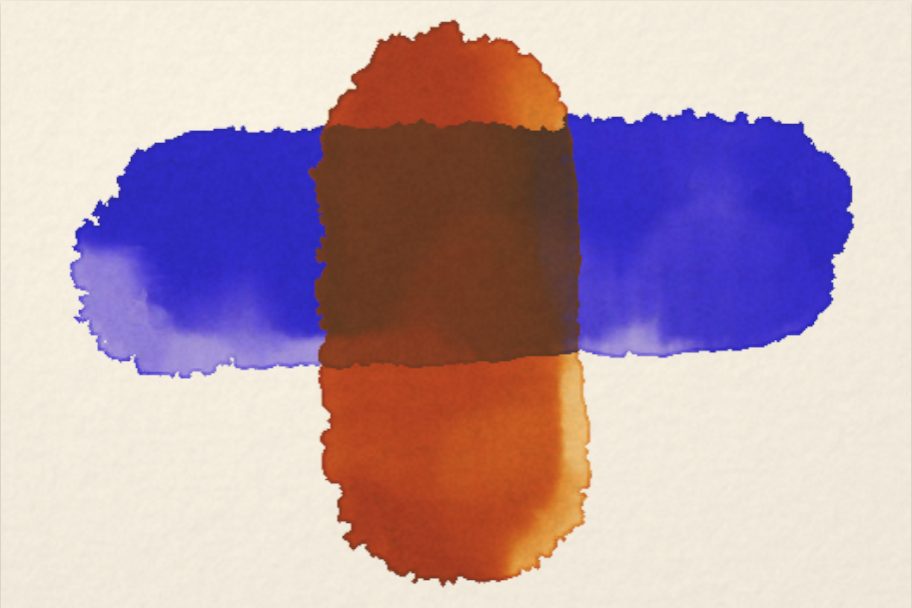
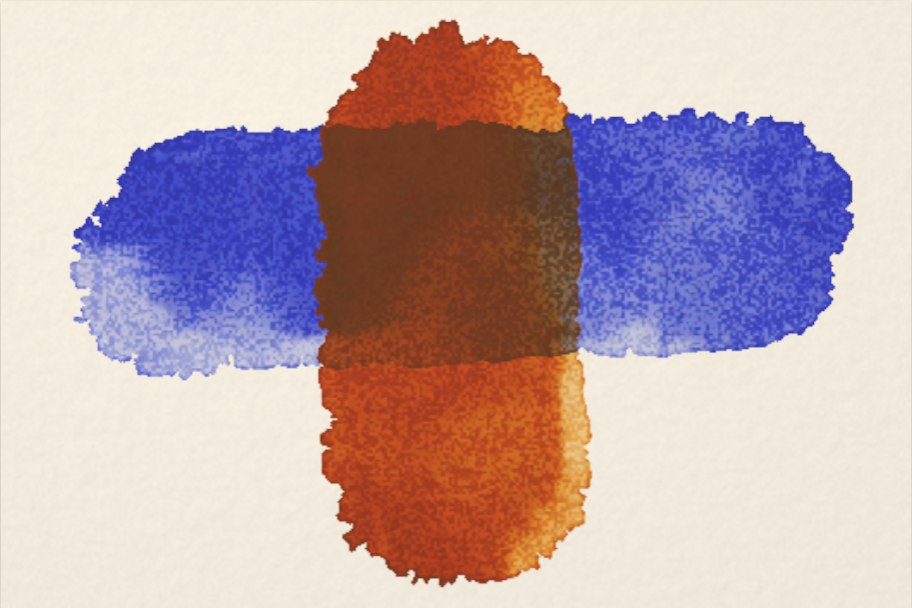
Bake granulation into the dried layer; real subtractive mingling; salt as brine
Granulation now lands at drying time as per-pit layer thickness in the
dried reflectance, so sediment speckle ghosts through later glazes. Phthalo
blue re-keyed green-shade so a wet meeting with yellow makes green, not
black. Salt grains are irregular wicking amoebae thrown into the saturated
wash. Edge fringing now follows wetness history instead of stamping one
uniform sawtooth on every mark.

Claude-Session: https://claude.ai/code/session_012ompEi3v5WLgYN66qUixCH

diff --git a/src/engine/shaders.ts b/src/engine/shaders.ts
@@ -74,9 +74,12 @@ float gate(vec2 uv, float pHere) {
   // Flow into dry paper is resisted until there is enough water behind it:
   // this is what keeps the edge of a wash crisp instead of feathering out
   // like ink on tissue. The threshold rides the paper's tooth, so the
-  // boundary advances unevenly along the fibers instead of as a level set.
+  // boundary advances unevenly along the fibers — but a well-fed edge beads
+  // smooth, so the fiber modulation fades where water is plentiful. One
+  // uniform fringe on every mark is a signature; wetness history is not.
   float wetThere = texture(uFlow, uv).a;
-  float fiber = 0.55 + 1.1 * texture(uPaper, uv).r;
+  float fiberMix = clamp(1.0 - pHere * 5.0, 0.25, 1.0);
+  float fiber = mix(1.0, 0.55 + 1.1 * texture(uPaper, uv).r, fiberMix);
   float invade = smoothstep(uTension * fiber, uTension * fiber * 2.5, pHere);
   return mix(invade, 1.0, step(0.05, wetThere));
 }
@@ -349,9 +352,11 @@ ${KM_GLSL}
 uniform sampler2D uFlow;
 uniform sampler2D uSusK;
 uniform sampler2D uSusS;
+uniform sampler2D uSusP;
 uniform sampler2D uDepK;
 uniform sampler2D uDepS;
 uniform sampler2D uDried;
+uniform sampler2D uPaper;
 out vec4 outColor;
 void main() {
   vec4 dried = texture(uDried, vUV);
@@ -366,10 +371,21 @@ void main() {
   }
   vec3 K = depK.rgb + susK.rgb;
   vec3 S = texture(uDepS, vUV).rgb + texture(uSusS, vUV).rgb;
+
+  // Granulation is baked at drying time, at the finest scale the paper
+  // carries: a granulating pigment's layer is genuinely thicker in the
+  // tooth's pits and thinner on its peaks. Because it lands in the dried
+  // reflectance itself, the sediment speckle ghosts through every later
+  // glaze — a real sheet never forgets its texture.
+  float gran = clamp(texture(uSusP, vUV).y / max(susK.a, 1e-5), 0.0, 1.0);
+  vec2 paper = texture(uPaper, vUV).rg;
+  float pit = smoothstep(0.62, 0.32, paper.r * 0.55 + paper.g * 0.45);
+  float thickness = 1.0 + gran * (0.9 * pit - 0.35);
+
   vec3 R, T;
-  kmLayer(K, S, 1.0, R, T);
+  kmLayer(K, S, thickness, R, T);
   vec3 folded = kmComposite(R, T, dried.rgb);
-  float depth = dried.a + (K.r + K.g + K.b) / 3.0;
+  float depth = dried.a + thickness * (K.r + K.g + K.b) / 3.0;
   outColor = vec4(folded, depth);
 }
 `;
@@ -490,18 +506,30 @@ in vec2 vStampUV;
 flat in vec4 vStamp;
 flat in vec4 vPaint;
 layout(location = 0) out vec4 outCap;    // adds (0, salt, 0, 0)
+
+float saltHash(float x, float seed) {
+  return fract(sin(x * 127.1 + seed * 311.7) * 43758.5453);
+}
+
 void main() {
-  float r = length(vLocal);
-  if (r > 1.0) discard;
-  // A crystal, not a disc: the reach of the grain varies with angle so the
-  // dissolving footprint wicks into an irregular star.
-  float angle = atan(vLocal.y, vLocal.x);
+  // An irregular amoeba, not a glyph: the grain's reach is value noise over
+  // angle (different per grain), and the whole footprint is stretched along
+  // a random wicking direction — the way brine actually creeps.
   float seed = vPaint.z;
-  float spikes = 3.0 + mod(seed, 4.0);
-  float reach = 0.55 + 0.45 * sin(angle * spikes + seed * 2.39996);
-  reach *= 0.75 + 0.25 * sin(angle * (spikes * 2.0 + 1.0) - seed);
-  float grain = smoothstep(1.0, 0.1, r / max(reach, 0.15));
-  outCap = vec4(0.0, vPaint.x * grain * 2.6, 0.0, 0.0);
+  float wickAngle = seed * 2.39996;
+  vec2 wick = vec2(cos(wickAngle), sin(wickAngle));
+  vec2 lp = vLocal - wick * dot(vLocal, wick) * (0.3 + 0.35 * saltHash(7.0, seed));
+  float r = length(lp);
+  if (r > 1.4) discard;
+  float bins = 5.0 + floor(mod(seed, 3.0));
+  float b = (atan(lp.y, lp.x) / 6.2831853 + 0.5) * bins;
+  float i0 = mod(floor(b), bins);
+  float i1 = mod(i0 + 1.0, bins);
+  float f = fract(b);
+  f = f * f * (3.0 - 2.0 * f);
+  float reach = mix(saltHash(i0, seed), saltHash(i1, seed), f) * 0.45 + 0.35;
+  float grain = smoothstep(1.0, 0.15, r / max(reach, 0.2));
+  outCap = vec4(0.0, vPaint.x * grain * 5.0, 0.0, 0.0);
 }
 `;
 

diff --git a/src/paint/pigments.ts b/src/paint/pigments.ts
@@ -87,10 +87,12 @@ const SPECS: PigmentSpec[] = [
   { id: "cobalt-violet", name: "Cobalt Violet", code: "PV14", hex: "#8d4f85", scattering: 0.7, strength: 1.1, granulation: 0.75, staining: 0.05, density: 0.8 },
   { id: "dioxazine-violet", name: "Dioxazine Violet", code: "PV23", hex: "#2a163f", scattering: 0.1, strength: 2.5, granulation: 0.0, staining: 0.85, density: 0.12 },
   { id: "ultramarine-violet", name: "Ultramarine Violet", code: "PV15", hex: "#4f4386", scattering: 0.4, strength: 1.3, granulation: 0.65, staining: 0.1, density: 0.6 },
-  { id: "french-ultramarine", name: "French Ultramarine", code: "PB29", hex: "#2e2a96", scattering: 0.45, strength: 1.6, granulation: 0.85, staining: 0.15, density: 0.6 },
-  { id: "cobalt-blue", name: "Cobalt Blue", code: "PB28", hex: "#2d55b0", scattering: 0.7, strength: 1.4, granulation: 0.6, staining: 0.15, density: 0.7 },
+  { id: "french-ultramarine", name: "French Ultramarine", code: "PB29", hex: "#363a92", scattering: 0.45, strength: 1.6, granulation: 0.85, staining: 0.15, density: 0.6 },
+  { id: "cobalt-blue", name: "Cobalt Blue", code: "PB28", hex: "#2f4da8", scattering: 0.7, strength: 1.4, granulation: 0.6, staining: 0.15, density: 0.7 },
   { id: "cerulean-blue", name: "Cerulean Blue", code: "PB35", hex: "#34718f", scattering: 2.3, strength: 1.3, granulation: 0.85, staining: 0.1, density: 0.85 },
-  { id: "phthalo-blue", name: "Phthalo Blue (GS)", code: "PB15:3", hex: "#071f4d", scattering: 0.07, strength: 3.0, granulation: 0.0, staining: 0.9, density: 0.08 },
+  // Green shade means green shade: the G channel must survive, or a phthalo
+  // wash meeting a yellow one makes black instead of the green it must.
+  { id: "phthalo-blue", name: "Phthalo Blue (GS)", code: "PB15:3", hex: "#032f56", scattering: 0.07, strength: 3.0, granulation: 0.0, staining: 0.9, density: 0.08 },
   { id: "prussian-blue", name: "Prussian Blue", code: "PB27", hex: "#122b3b", scattering: 0.12, strength: 2.2, granulation: 0.05, staining: 0.8, density: 0.2 },
   { id: "indanthrone-blue", name: "Indanthrone Blue", code: "PB60", hex: "#26315e", scattering: 0.15, strength: 1.8, granulation: 0.1, staining: 0.7, density: 0.25 },
   // — Greens —

diff --git a/src/engine/simulation.ts b/src/engine/simulation.ts
@@ -74,13 +74,13 @@ export interface Params {
 export const DEFAULT_PARAMS: Params = {
   gravity: 0.14,
   damp: 0.982,
-  slope: 0.09,
+  slope: 0.12,
   tension: 0.02,
-  saltPull: 0.45,
+  saltPull: 0.8,
   evap: 0.00016,
   evapEdge: 0.0016,
   absorb: 0.00045,
-  capDiff: 0.05,
+  capDiff: 0.04,
   capDry: 0.00025,
   velScale: 20,
   advect: 1.0,
@@ -88,7 +88,7 @@ export const DEFAULT_PARAMS: Params = {
   settle: 0.0018,
   granBias: 1.1,
   lift: 0.005,
-  saltLift: 0.2,
+  saltLift: 0.5,
   edgeSettle: 14,
   substeps: 3,
   zoomGrain: 0.012,
@@ -475,9 +475,11 @@ export class Simulation {
         ["uFlow", this.flow.read.texture],
         ["uSusK", this.susK.read.texture],
         ["uSusS", this.susS.read.texture],
+        ["uSusP", this.susP.read.texture],
         ["uDepK", this.depK.read.texture],
         ["uDepS", this.depS.read.texture],
         ["uDried", this.dried.read.texture],
+        ["uPaper", this.paper.texture],
       ]
     );
     this.dried.swap();
